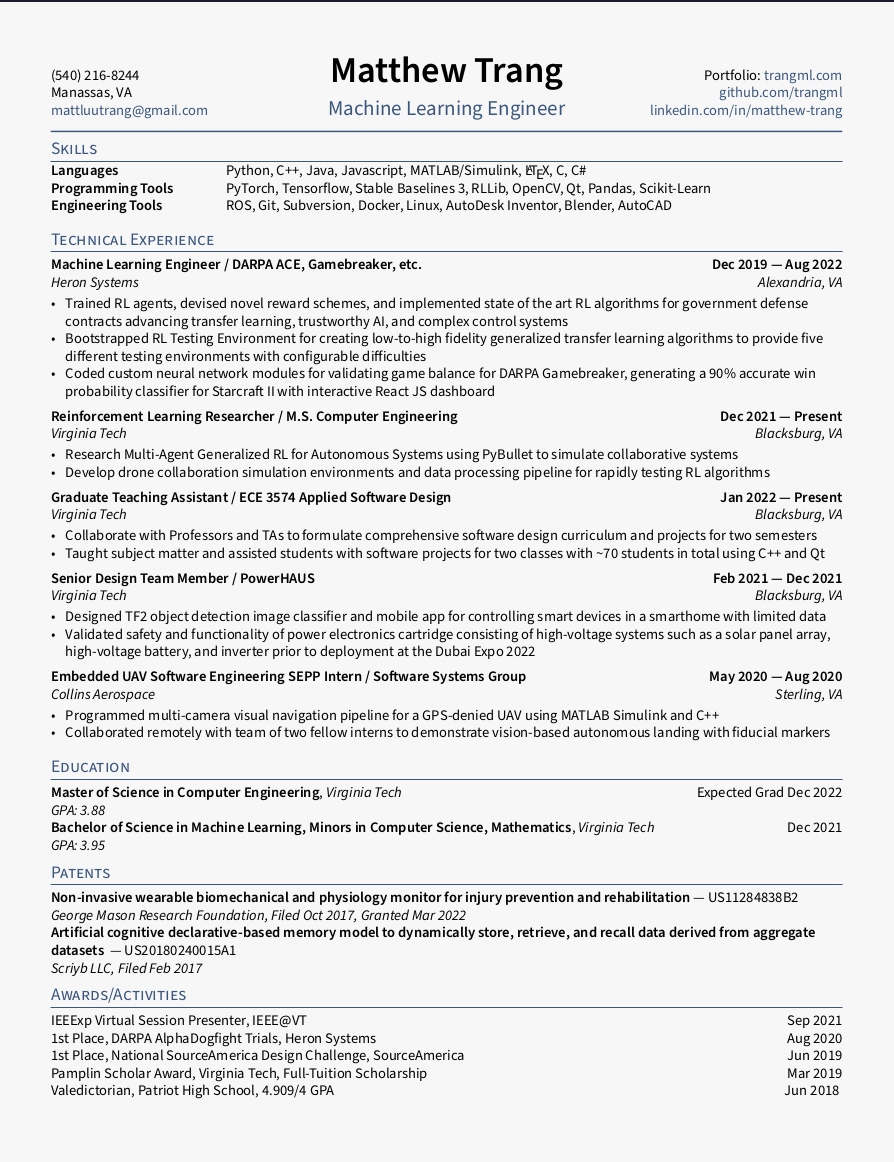
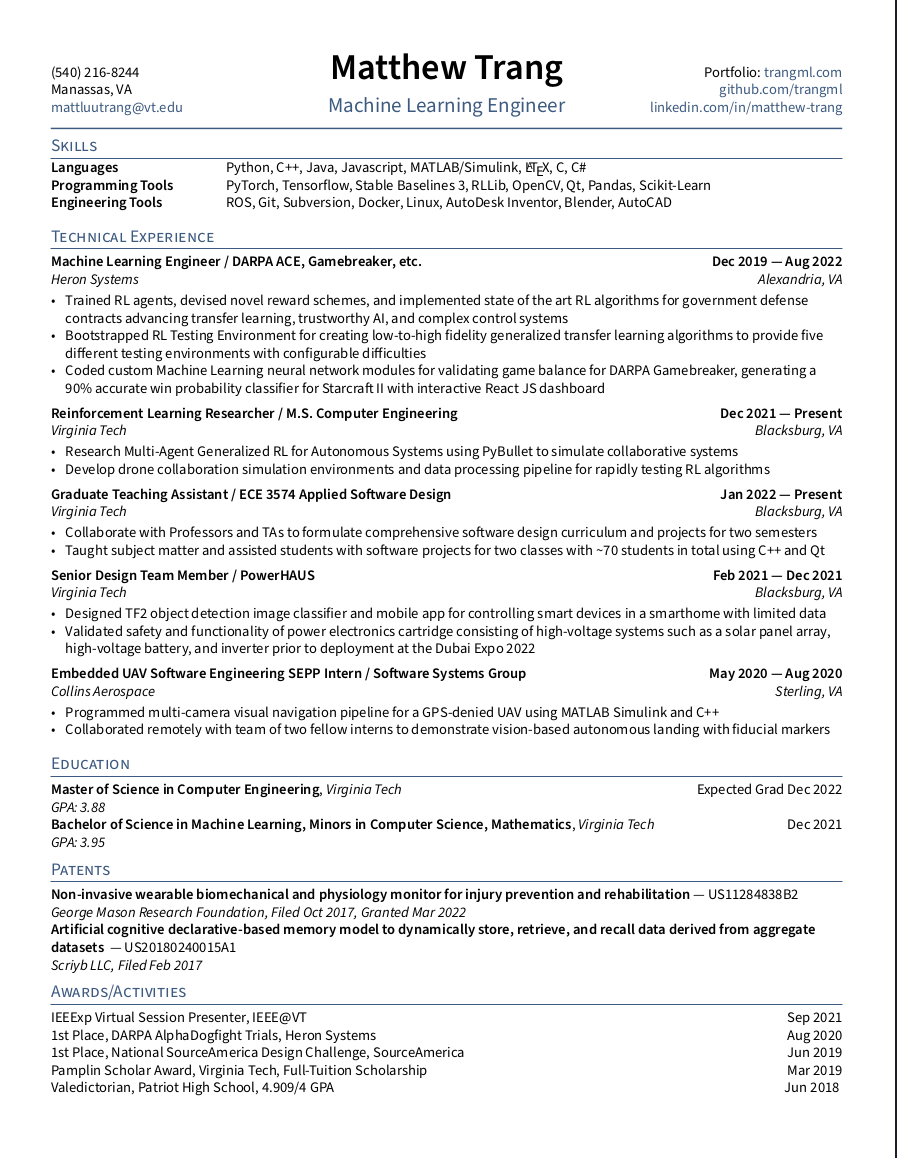
changed main contact email on resume

Changed region(s): [[0.0604, 0.0311, 0.9362, 0.9637], [0.9966, 0.0, 1.0, 1.0], [0.8758, 0.8705, 0.9362, 0.9637]]

diff --git a/sections/experience.tex b/sections/experience.tex
@@ -8,7 +8,7 @@
 	control systems
 	\item Bootstrapped RL Testing Environment for creating low-to-high fidelity generalized transfer learning algorithms
 	to provide five different testing environments with configurable difficulties
-	\item Coded custom neural network modules for validating game balance for DARPA Gamebreaker, generating a 90\%
+	\item Coded custom Machine Learning neural network modules for validating game balance for DARPA Gamebreaker, generating a 90\%
 	accurate win probability classifier for Starcraft II with interactive React JS dashboard
 	% \item Devised novel reward schemes and neural networks for RL AI Fighter Jet Agents,
 	% achieving 1st place in DARPA ADT

diff --git a/Trang_Matthew_Resume.tex b/Trang_Matthew_Resume.tex
@@ -34,7 +34,7 @@
 \def\name{Matthew Trang} % Name Here
 \def\phone{(540) 216-8244}
 \def\city{Manassas, VA}
-\def\email{mattluutrang@gmail.com}
+\def\email{mattluutrang@vt.edu}
 \def\LinkedIn{matthew-trang} % linkedin.com/in/______
 \def\github{trangml} % github username
 \def\role{Machine Learning Engineer} % JOB TITLE
